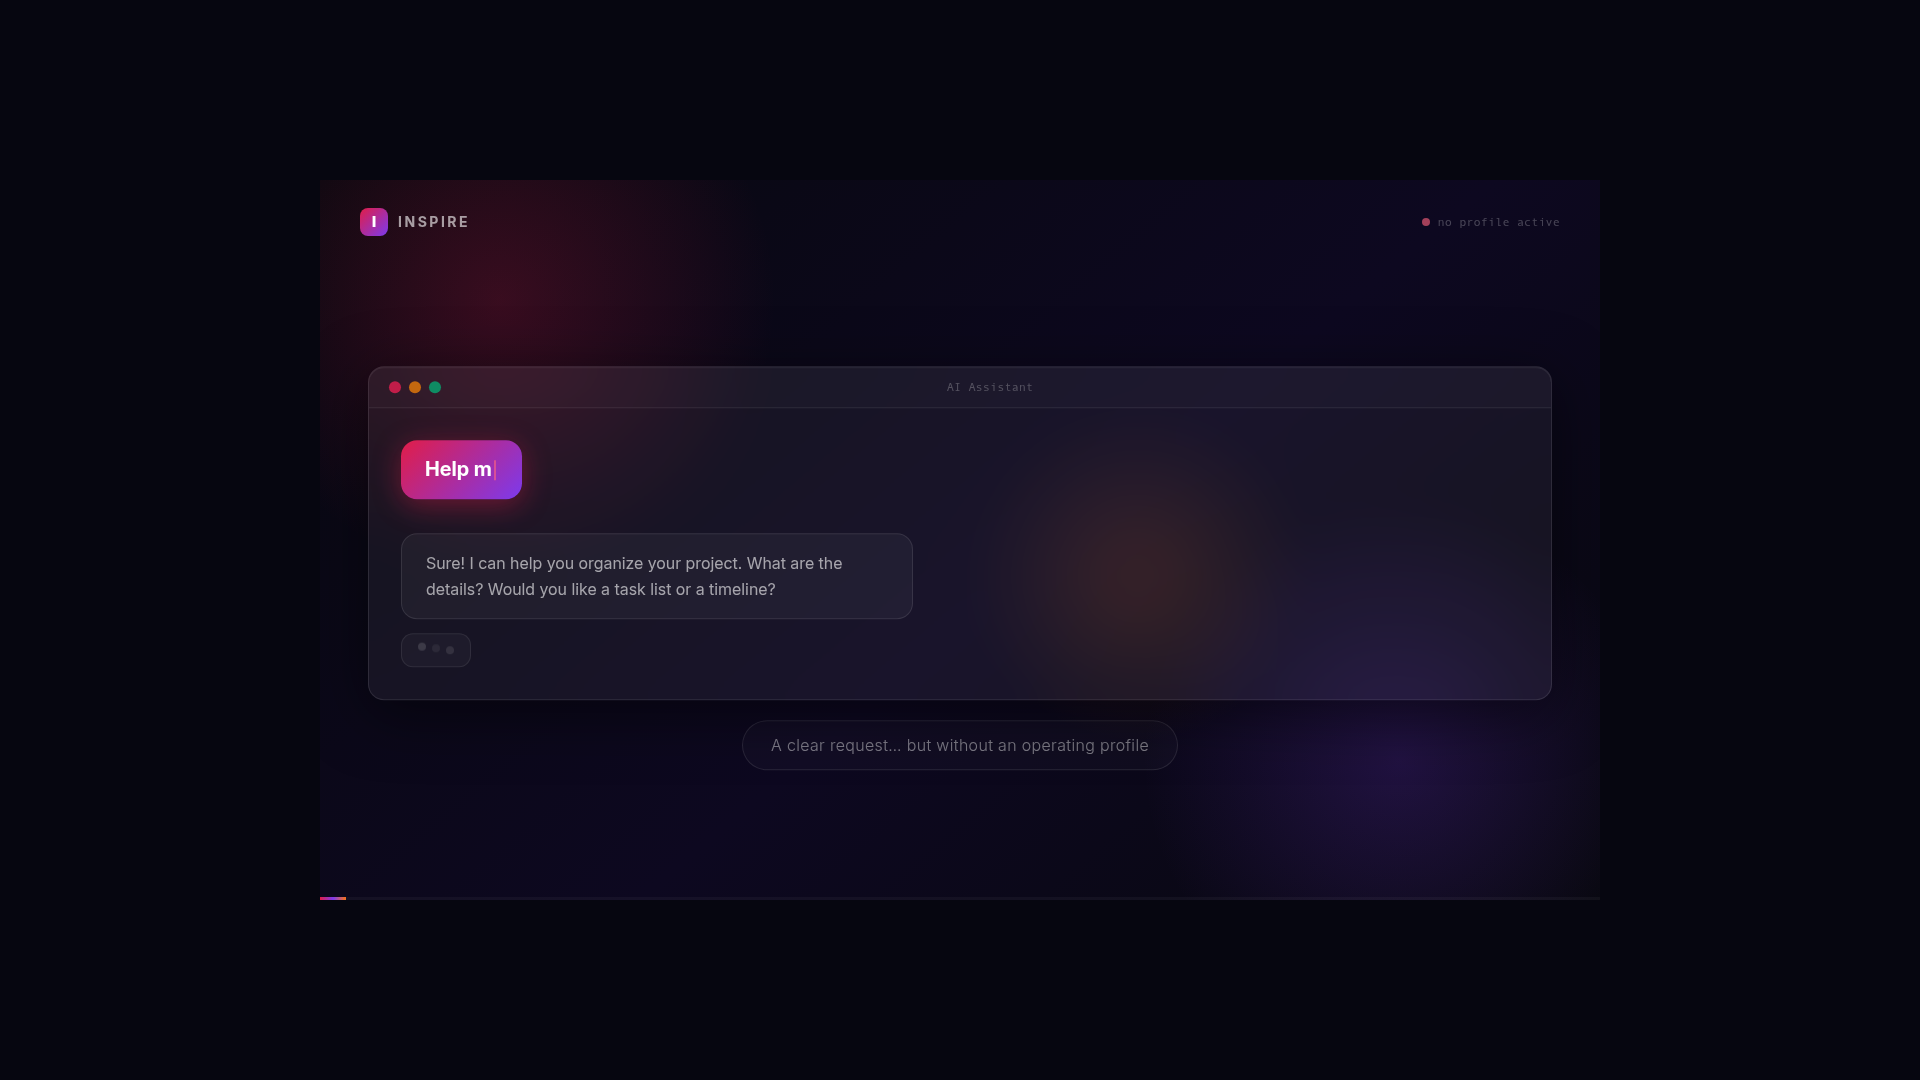
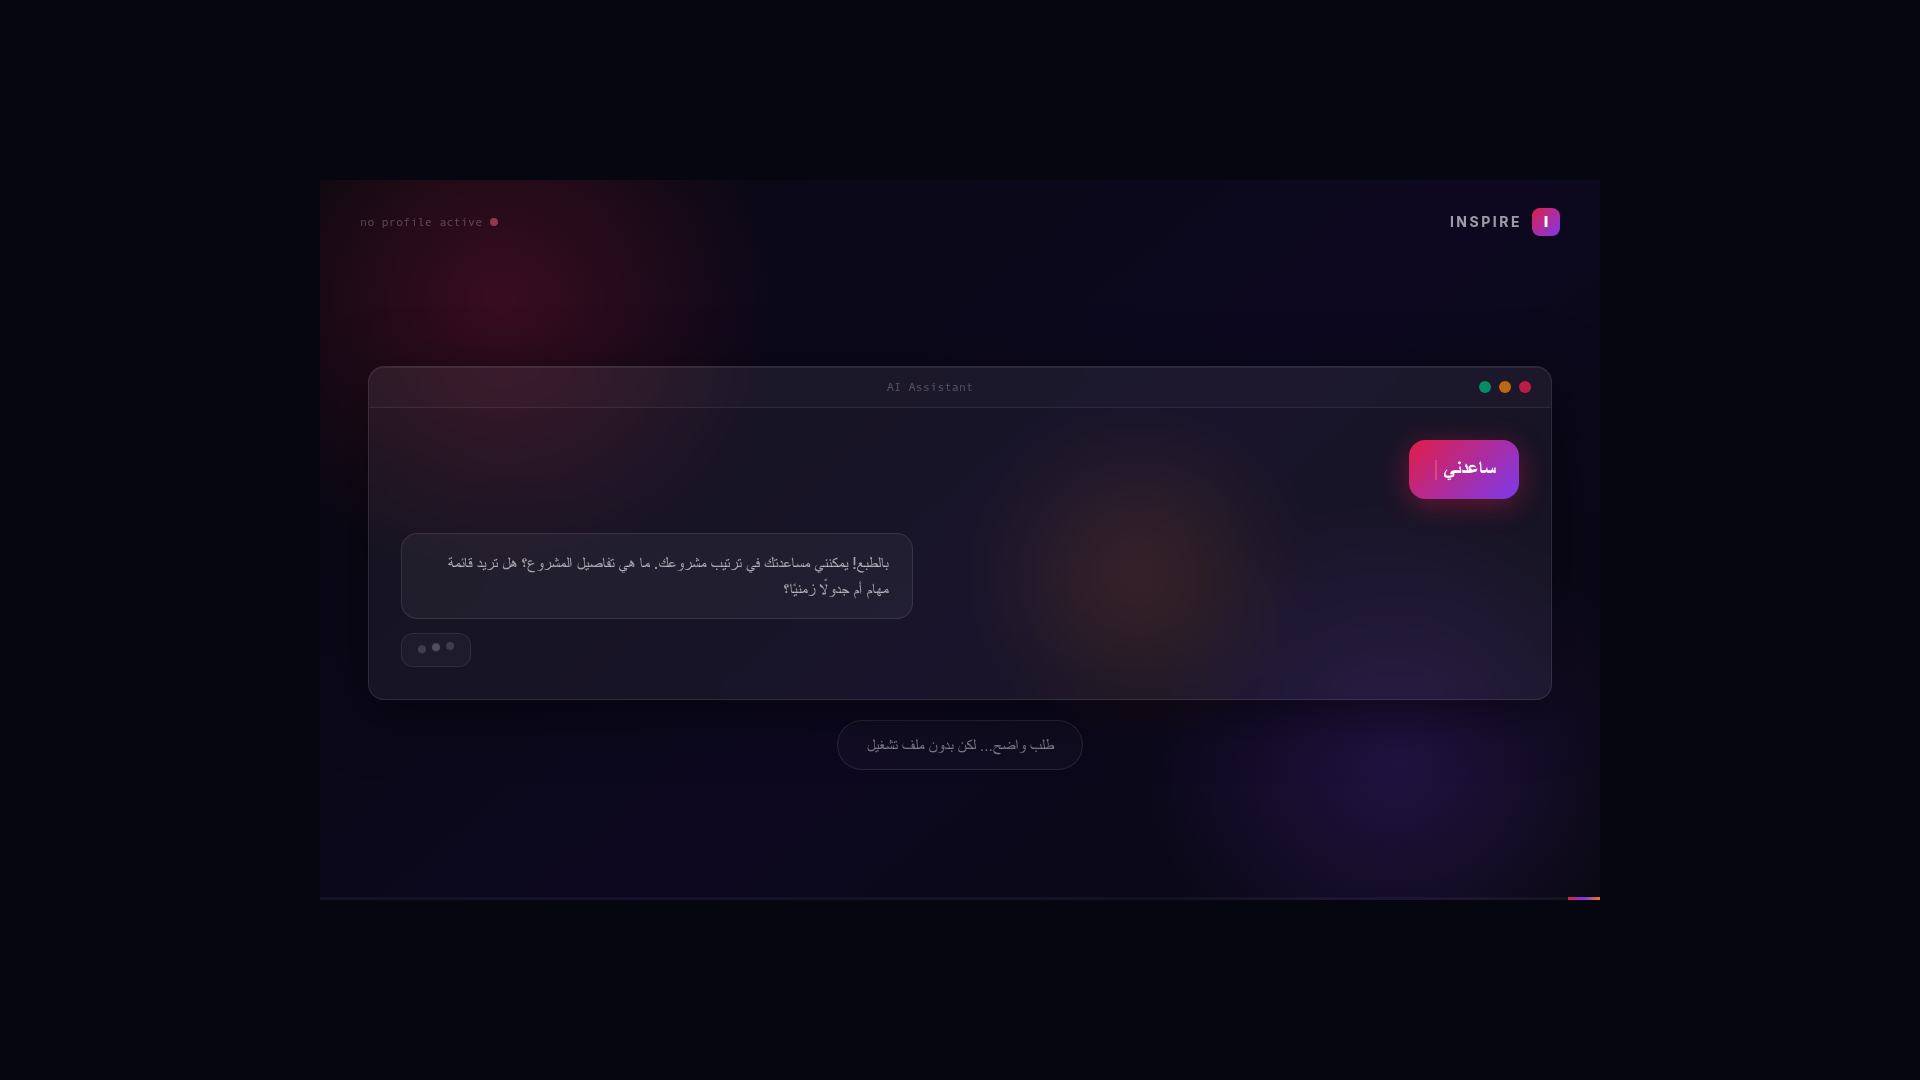
Improve Arabic text display and alignment for right-to-left layouts
Adjust flexbox justification properties in the `InspireExplainer` component to ensure correct right-to-left (RTL) layout for chat bubbles, AI responses, and typing indicators.

Replit-Commit-Author: Agent
Replit-Commit-Session-Id: d3ba6c4e-a7de-4feb-9df2-4eb85a2fddf6
Replit-Commit-Checkpoint-Type: full_checkpoint
Replit-Commit-Event-Id: 1e6c59b9-588f-4c84-bb39-06aee027ff74
Replit-Commit-Screenshot-Url: https://storage.googleapis.com/screenshot-production-us-central1/65b87698-2306-4a02-a0fa-7e418a57ad9f/d3ba6c4e-a7de-4feb-9df2-4eb85a2fddf6/LHC9cz9
Replit-Helium-Checkpoint-Created: true

diff --git a/artifacts/mockup-sandbox/src/components/mockups/inspire-explainer/InspireExplainer.tsx b/artifacts/mockup-sandbox/src/components/mockups/inspire-explainer/InspireExplainer.tsx
@@ -212,8 +212,8 @@ export function InspireExplainer() {
                 <Glass className="overflow-hidden" style={{ boxShadow: "inset 0 1px 0 rgba(255,255,255,0.07), 0 12px 60px rgba(0,0,0,0.5)" }}>
                   <TitleBar label="AI Assistant" />
                   <div className="p-8 flex flex-col gap-6">
-                    {/* User bubble */}
-                    <div className={`flex ${dir === "rtl" ? "justify-end" : "justify-start"}`}>
+                    {/* User bubble — RTL: justify-start = visual RIGHT */}
+                    <div className={`flex ${dir === "rtl" ? "justify-start" : "justify-start"}`}>
                       <div
                         className="rounded-2xl px-6 py-4 text-xl font-bold text-white max-w-md leading-snug"
                         style={{ background: "linear-gradient(135deg,#e11d48,#7c3aed)", boxShadow: "0 6px 28px rgba(225,29,72,.4)" }}
@@ -221,17 +221,17 @@ export function InspireExplainer() {
                         <TypingText text={c.userPrompt} speed={60} seed={loopKey} />
                       </div>
                     </div>
-                    {/* AI generic reply */}
+                    {/* AI generic reply — RTL: justify-end = visual LEFT */}
                     <motion.div
                       initial={{ opacity: 0, y: 10 }} animate={{ opacity: 1, y: 0 }} transition={{ delay: 1.9, duration: 0.4 }}
-                      className="flex justify-start"
+                      className={`flex ${dir === "rtl" ? "justify-end" : "justify-start"}`}
                     >
                       <div className="rounded-2xl px-6 py-4 text-base text-white/60 leading-relaxed max-w-lg border border-white/10" style={{ background: "rgba(255,255,255,0.045)" }}>
                         {c.genericResponse}
                       </div>
                     </motion.div>
-                    {/* Typing dots */}
-                    <motion.div initial={{ opacity: 0 }} animate={{ opacity: 1 }} transition={{ delay: 3.2, duration: 0.3 }} className="flex justify-start">
+                    {/* Typing dots — RTL: justify-end = visual LEFT (AI side) */}
+                    <motion.div initial={{ opacity: 0 }} animate={{ opacity: 1 }} transition={{ delay: 3.2, duration: 0.3 }} className={`flex ${dir === "rtl" ? "justify-end" : "justify-start"}`}>
                       <div className="rounded-xl px-4 py-3 border border-white/8 flex gap-1.5 items-center" style={{ background: "rgba(255,255,255,0.03)" }}>
                         {[0, 0.2, 0.4].map((d, i) => (
                           <motion.div key={i} className="w-2 h-2 rounded-full bg-white/25" animate={{ opacity: [.25, 1, .25], y: [0, -4, 0] }} transition={{ duration: 1, repeat: Infinity, delay: d }} />
@@ -307,8 +307,8 @@ export function InspireExplainer() {
                 >
                   <TitleBar label="AI Assistant + INSPIRE Profile" glow />
                   <div className="p-8 flex flex-col gap-6">
-                    {/* Same user bubble */}
-                    <div className={`flex ${dir === "rtl" ? "justify-end" : "justify-start"}`}>
+                    {/* Same user bubble — RTL: justify-start = visual RIGHT */}
+                    <div className="flex justify-start">
                       <div className="rounded-2xl px-6 py-4 text-xl font-bold text-white max-w-md" style={{ background: "linear-gradient(135deg,#e11d48,#7c3aed)", boxShadow: "0 6px 28px rgba(225,29,72,.4)" }}>
                         {c.userPrompt}
                       </div>
@@ -325,7 +325,7 @@ export function InspireExplainer() {
                         ))}
                       </ul>
                       <motion.p initial={{ opacity: 0 }} animate={{ opacity: 1 }} transition={{ delay: 1.3, duration: .4 }} className="text-rose-300 text-sm font-semibold pt-3 border-t border-white/10 flex items-center gap-2">
-                        <span className="text-rose-400 text-base">→</span>{c.nextStep}
+                        <span className="text-rose-400 text-base">{dir === "rtl" ? "←" : "→"}</span>{c.nextStep}
                       </motion.p>
                     </motion.div>
                   </div>
